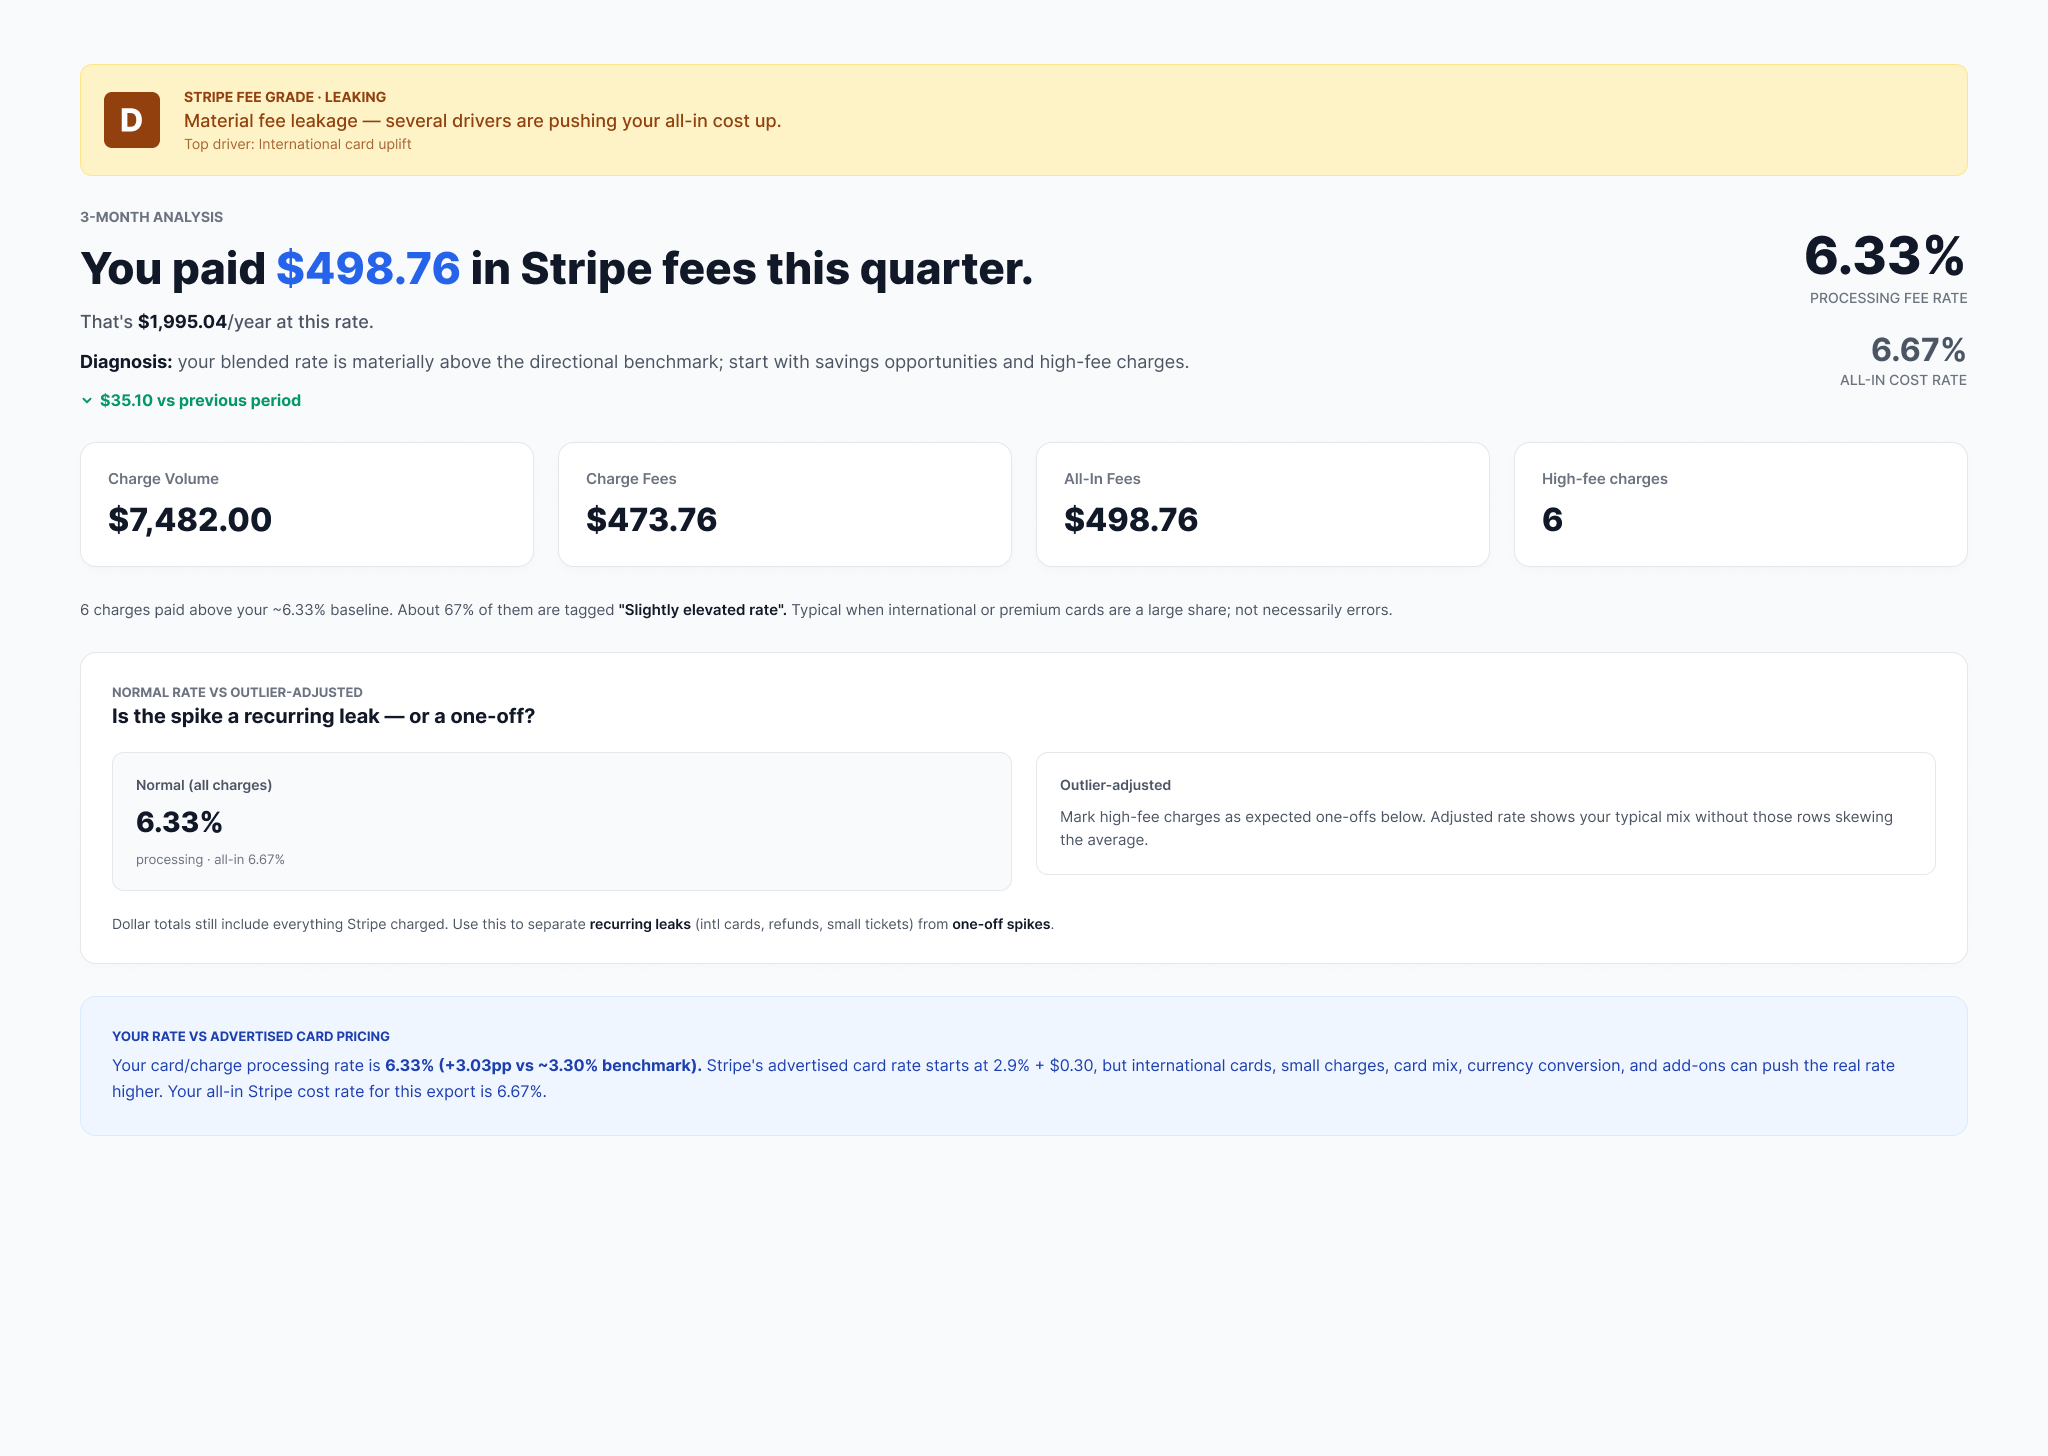
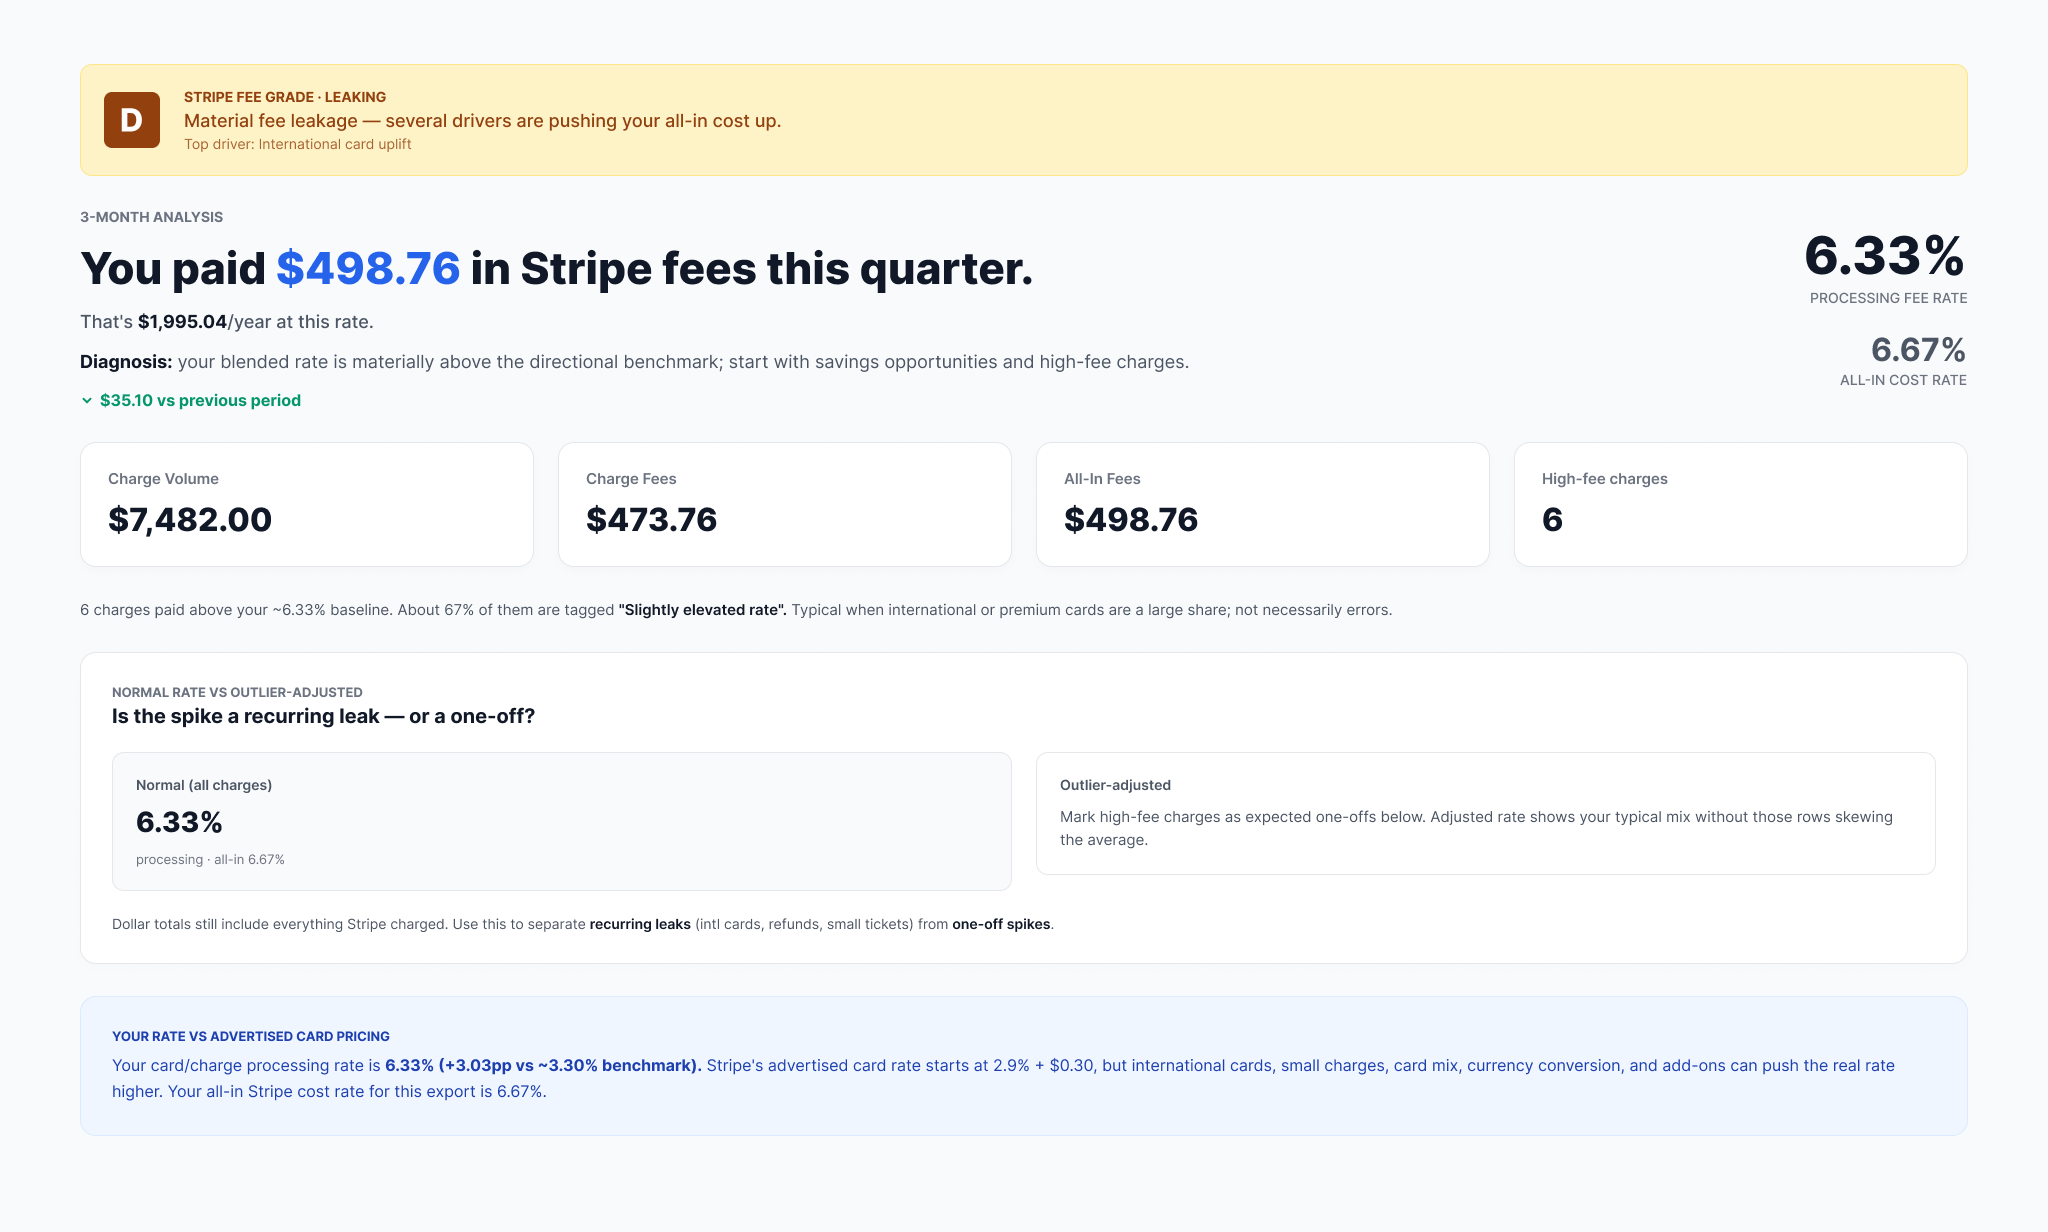
fix(landing): crop report preview to remove empty frame padding
Figma frame was 1456px tall but content ends ~1135px; trim bottom gray canvas on 1x/2x assets.

diff --git a/app/page.tsx b/app/page.tsx
@@ -292,7 +292,7 @@ export default function HomePage() {
               srcSet="/screenshots/report-preview.png 1x, /screenshots/report-preview@2x.png 2x"
               alt="Stripe Fee Auditor report: Fee Grade D, $498.76 in quarter fees, 6.33% processing rate, 6.67% all-in cost, and comparison vs advertised 2.9% card pricing"
               width={1024}
-              height={728}
+              height={616}
               decoding="async"
               fetchPriority="high"
               className="mx-auto block h-auto w-full max-w-[1024px]"
